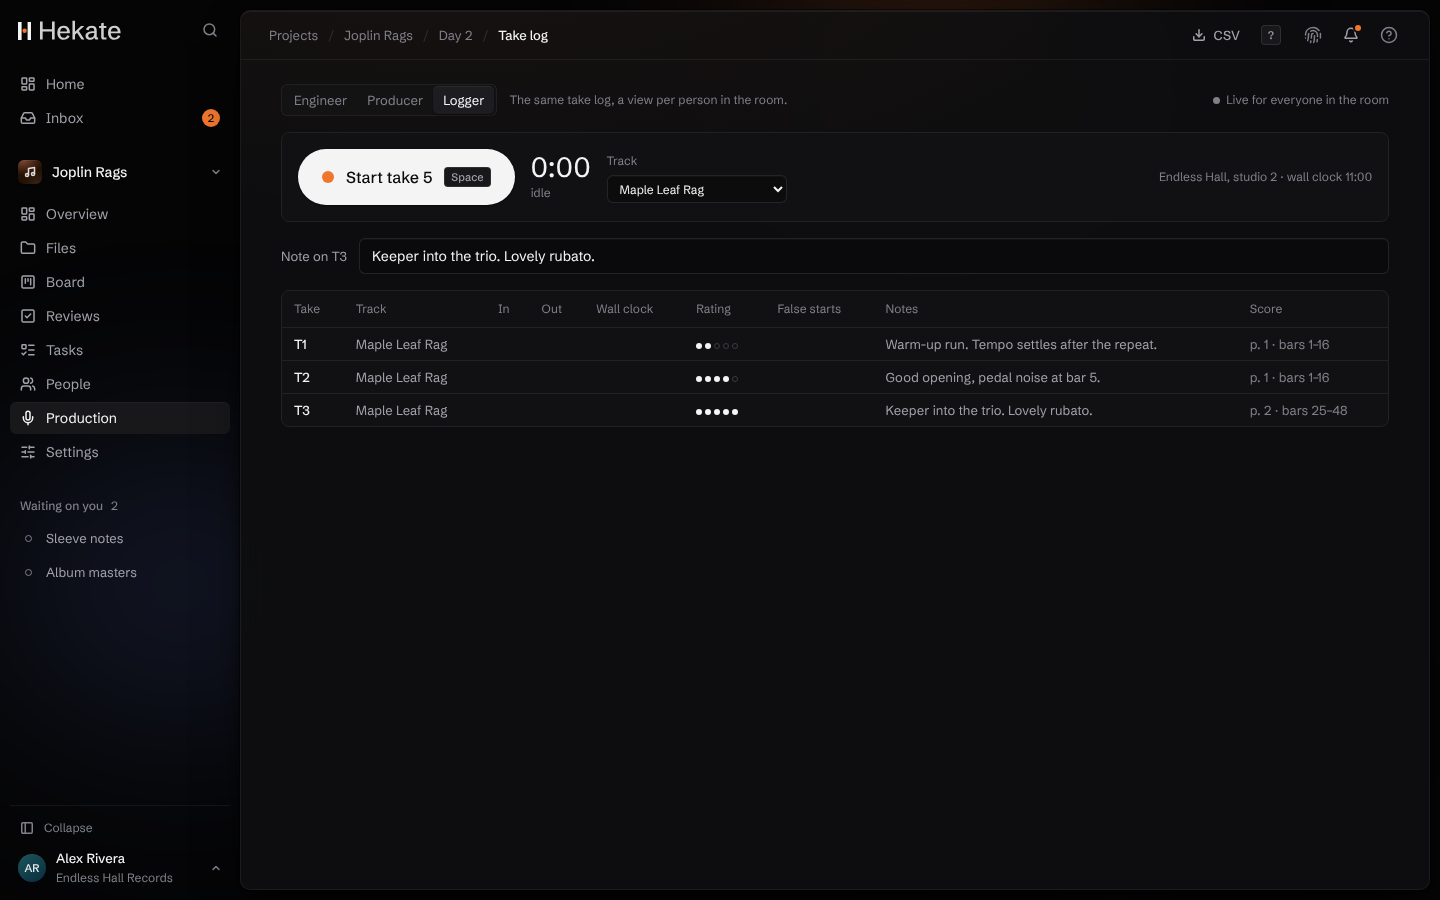
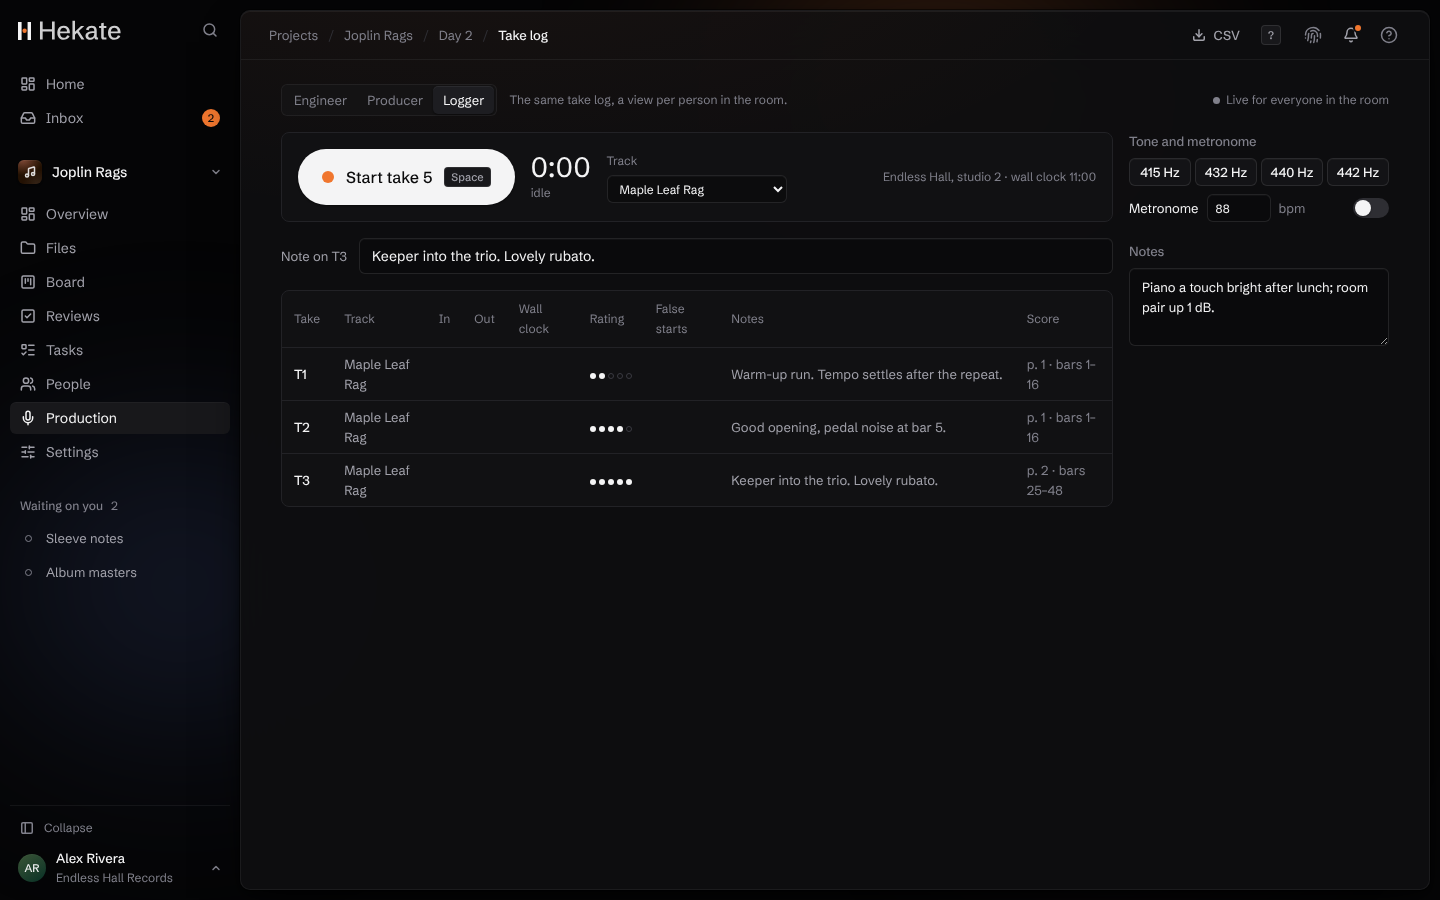
feat(web): a tuning tone and a metronome beside the take log (#51) (#368)
* feat(web): a tuning tone and a metronome beside the take log (#51)

Claude-Session: https://claude.ai/code/session_017vaSqC7EeCsBSrR21gRgK1

* fix(web): the metronome skips missed beats, and an output can be chosen where the browser asks

Claude-Session: https://claude.ai/code/session_017vaSqC7EeCsBSrR21gRgK1

---------

diff --git a/apps/web/src/lib/reference-audio.ts b/apps/web/src/lib/reference-audio.ts
@@ -1,0 +1,211 @@
+import { useCallback, useEffect, useRef, useState } from "react";
+
+/** The tuning pitches a room asks for: baroque, "Verdi", concert and orchestral A. */
+export const TONES = [415, 432, 440, 442] as const;
+export type Tone = (typeof TONES)[number];
+
+export const TEMPO_MIN = 30;
+export const TEMPO_MAX = 300;
+export const TEMPO_DEFAULT = 88;
+
+/** A tempo someone typed, as a whole number the metronome can keep; nothing for no number. */
+export function tempoOf(input: number): number | null {
+  if (!Number.isFinite(input)) return null;
+  return Math.min(TEMPO_MAX, Math.max(TEMPO_MIN, Math.round(input)));
+}
+
+/**
+ * The clicks to schedule now: every beat from `next` up to `until` (seconds on the audio clock),
+ * and where the beat after them falls. The audio clock keeps time; the timer only looks ahead.
+ * Beats already gone by `now` (the page was busy, or the timer slowed in the background) are
+ * skipped, never played late in a burst, and the beat stays on its grid.
+ */
+export function beatsDue(
+  next: number,
+  bpm: number,
+  now: number,
+  until: number,
+): { times: number[]; next: number } {
+  const step = 60 / bpm;
+  const times: number[] = [];
+  let at = next < now ? next + Math.ceil((now - next) / step) * step : next;
+  while (at < until) {
+    times.push(at);
+    at += step;
+  }
+  return { times, next: at };
+}
+
+/** How far ahead clicks are scheduled, and how often the scheduler wakes, in seconds. */
+const AHEAD = 0.1;
+const WAKE = 0.025;
+const TONE_LEVEL = 0.2;
+const CLICK_LEVEL = 0.4;
+const STORED = "hekate.metronome.tempo";
+
+type SinkContext = AudioContext & { setSinkId?: (id: string) => Promise<void> };
+/** Asking for an output by name, where the browser has it (Firefox does; Chrome lists them). */
+type Picker = MediaDevices & { selectAudioOutput?: () => Promise<MediaDeviceInfo> };
+
+const sinkSupported = () =>
+  typeof AudioContext !== "undefined" && "setSinkId" in AudioContext.prototype;
+
+/** An output a browser lets a page choose (Chrome and Edge do; others play through the default). */
+export interface AudioOutput {
+  id: string;
+  label: string;
+}
+
+function storedTempo(): number {
+  try {
+    return tempoOf(Number(localStorage.getItem(STORED) ?? Number.NaN)) ?? TEMPO_DEFAULT;
+  } catch {
+    return TEMPO_DEFAULT;
+  }
+}
+
+/**
+ * The take log's tuning tone and metronome (#51), played on this device only: each person in the
+ * room hears their own, through the output they choose where the browser allows it.
+ */
+export function useReferenceAudio() {
+  const context = useRef<SinkContext | null>(null);
+  const [tone, setTone] = useState<Tone | null>(null);
+  const [metronome, setMetronome] = useState(false);
+  const [tempo, setTempoState] = useState(storedTempo);
+  const [outputs, setOutputs] = useState<AudioOutput[]>([]);
+  const [output, setOutputState] = useState("");
+  const chosen = useRef(output);
+
+  // Made on first use, after a press, so the browser lets it sound.
+  const audio = useCallback((): SinkContext => {
+    if (!context.current) {
+      context.current = new AudioContext() as SinkContext;
+      if (chosen.current) void context.current.setSinkId?.(chosen.current).catch(() => undefined);
+    }
+    void context.current.resume();
+    return context.current;
+  }, []);
+
+  const setTempo = (bpm: number) => {
+    setTempoState(bpm);
+    try {
+      localStorage.setItem(STORED, String(bpm));
+    } catch {
+      // Remembering the tempo is a convenience; without storage it starts at the default.
+    }
+  };
+
+  const setOutput = (id: string) => {
+    setOutputState(id);
+    chosen.current = id;
+    void context.current?.setSinkId?.(id).catch(() => undefined);
+  };
+
+  useEffect(() => {
+    if (tone == null) return;
+    const ctx = audio();
+    const now = ctx.currentTime;
+    const oscillator = ctx.createOscillator();
+    const level = ctx.createGain();
+    oscillator.frequency.value = tone;
+    // A short fade either side, so the tone starts and stops without a click.
+    level.gain.setValueAtTime(0, now);
+    level.gain.linearRampToValueAtTime(TONE_LEVEL, now + 0.05);
+    oscillator.connect(level).connect(ctx.destination);
+    oscillator.start(now);
+    return () => {
+      const end = ctx.currentTime;
+      level.gain.cancelScheduledValues(end);
+      level.gain.setValueAtTime(level.gain.value, end);
+      level.gain.linearRampToValueAtTime(0, end + 0.05);
+      oscillator.stop(end + 0.06);
+    };
+  }, [tone, audio]);
+
+  useEffect(() => {
+    if (!metronome) return;
+    const ctx = audio();
+    let next = ctx.currentTime + 0.05;
+    const click = (at: number) => {
+      const oscillator = ctx.createOscillator();
+      const level = ctx.createGain();
+      oscillator.frequency.value = 1000;
+      level.gain.setValueAtTime(CLICK_LEVEL, at);
+      level.gain.exponentialRampToValueAtTime(0.001, at + 0.03);
+      oscillator.connect(level).connect(ctx.destination);
+      oscillator.start(at);
+      oscillator.stop(at + 0.04);
+    };
+    const wake = () => {
+      const due = beatsDue(next, tempo, ctx.currentTime, ctx.currentTime + AHEAD);
+      for (const at of due.times) click(at);
+      next = due.next;
+    };
+    wake();
+    const timer = setInterval(wake, WAKE * 1000);
+    return () => clearInterval(timer);
+  }, [metronome, tempo, audio]);
+
+  useEffect(() => {
+    const devices = navigator.mediaDevices;
+    if (!sinkSupported()) return;
+    if (!devices?.enumerateDevices) return;
+    const list = () =>
+      devices
+        .enumerateDevices()
+        .then((all) =>
+          // Browsers name outputs only once a page may use a microphone; unnamed, there is no choice.
+          setOutputs(
+            all
+              .filter((d) => d.kind === "audiooutput" && d.label && d.deviceId !== "default")
+              .map((d) => ({ id: d.deviceId, label: d.label })),
+          ),
+        )
+        .catch(() => setOutputs([]));
+    void list();
+    devices.addEventListener?.("devicechange", list);
+    return () => devices.removeEventListener?.("devicechange", list);
+  }, []);
+
+  useEffect(
+    () => () => {
+      void context.current?.close();
+      context.current = null;
+    },
+    [],
+  );
+
+  const picker = typeof navigator === "undefined" ? undefined : (navigator.mediaDevices as Picker);
+  /** Where a browser asks the person for an output, the output they chose; nothing if they did not. */
+  const pick =
+    sinkSupported() && picker?.selectAudioOutput
+      ? async () => {
+          try {
+            const device = await picker.selectAudioOutput?.();
+            if (!device) return;
+            setOutputs((all) =>
+              all.some((o) => o.id === device.deviceId)
+                ? all
+                : [...all, { id: device.deviceId, label: device.label || "Chosen output" }],
+            );
+            setOutput(device.deviceId);
+          } catch {
+            // Dismissed, or refused: the tone and click stay on the output they were on.
+          }
+        }
+      : null;
+
+  return {
+    pick,
+    tone,
+    setTone,
+    metronome,
+    setMetronome,
+    tempo,
+    setTempo,
+    outputs,
+    output,
+    setOutput,
+  };
+}

diff --git a/apps/web/src/routes/take-log.tsx b/apps/web/src/routes/take-log.tsx
@@ -18,9 +18,11 @@ import { Button } from "~/components/ui/button";
 import { Checkbox } from "~/components/ui/choice";
 import { Input, Select, Textarea } from "~/components/ui/input";
 import { Segmented } from "~/components/ui/segmented";
+import { Switch } from "~/components/ui/toggle";
 import { cn } from "~/lib/cn";
 import { formatDates } from "~/lib/locale";
 import { projectQuery, sessionQuery, useProjectCan, useTakeLog, viewQuery } from "~/lib/queries";
+import { TEMPO_MAX, TEMPO_MIN, TONES, tempoOf, useReferenceAudio } from "~/lib/reference-audio";
 import { useShortcuts } from "~/lib/shortcuts";
 import {
   clock,
@@ -680,6 +682,83 @@ function ScorePage({
   );
 }
 
+/** A tuning tone and a metronome for whoever has this page open, heard on their device only. */
+function ToneAndMetronome() {
+  const audio = useReferenceAudio();
+  const id = useId();
+  const [typed, setTyped] = useState(String(audio.tempo));
+  return (
+    <section aria-labelledby={id} className="flex flex-col gap-2">
+      <h2 id={id} className="label m-0">
+        Tone and metronome
+      </h2>
+      <div className="grid grid-cols-4 gap-1">
+        {TONES.map((hz) => (
+          <Button
+            key={hz}
+            size="sm"
+            variant="secondary"
+            aria-pressed={audio.tone === hz}
+            onClick={() => audio.setTone(audio.tone === hz ? null : hz)}
+            className="tabular px-0 aria-pressed:border-signal/60 aria-pressed:bg-signal/10"
+          >
+            {hz} Hz
+          </Button>
+        ))}
+      </div>
+      <div className="flex items-center gap-2 text-[13px] text-ink">
+        <span className="flex flex-1 items-center gap-2">
+          Metronome
+          <Input
+            aria-label="Tempo, beats a minute"
+            size="sm"
+            type="number"
+            inputMode="numeric"
+            min={TEMPO_MIN}
+            max={TEMPO_MAX}
+            value={typed}
+            onChange={(e) => {
+              setTyped(e.target.value);
+              const bpm = tempoOf(e.target.valueAsNumber);
+              if (bpm != null && bpm === e.target.valueAsNumber) audio.setTempo(bpm);
+            }}
+            onBlur={() => {
+              const bpm = tempoOf(Number.parseFloat(typed)) ?? audio.tempo;
+              audio.setTempo(bpm);
+              setTyped(String(bpm));
+            }}
+            className="tabular w-16"
+          />
+          <span aria-hidden="true" className="text-ink-3">
+            bpm
+          </span>
+        </span>
+        <Switch label="Metronome" checked={audio.metronome} onChange={audio.setMetronome} />
+      </div>
+      {audio.outputs.length > 0 && (
+        <Select
+          size="sm"
+          aria-label="Play through"
+          value={audio.output}
+          onChange={(e) => audio.setOutput(e.target.value)}
+        >
+          <option value="">This device's default output</option>
+          {audio.outputs.map((o) => (
+            <option key={o.id} value={o.id}>
+              {o.label}
+            </option>
+          ))}
+        </Select>
+      )}
+      {audio.pick && (
+        <Button size="sm" variant="ghost" onClick={audio.pick} className="self-start">
+          Choose an output
+        </Button>
+      )}
+    </section>
+  );
+}
+
 /**
  * Beside the log (#51): for the producer, the score where the take starts, the room's to-do
  * list and the quick reference; for everyone, the session's notes.
@@ -784,6 +863,7 @@ function TakeLogAside({
           />
         </>
       )}
+      <ToneAndMetronome />
       <SharedText
         label="Notes"
         value={session.notes}

diff --git a/apps/web/src/lib/reference-audio.test.ts b/apps/web/src/lib/reference-audio.test.ts
@@ -1,0 +1,45 @@
+import { describe, expect, it } from "vitest";
+import { beatsDue, TEMPO_MAX, TEMPO_MIN, tempoOf } from "./reference-audio";
+
+describe("tempoOf", () => {
+  it("keeps a typed tempo whole and within what a metronome plays", () => {
+    expect(tempoOf(88)).toBe(88);
+    expect(tempoOf(92.6)).toBe(93);
+    expect(tempoOf(4)).toBe(TEMPO_MIN);
+    expect(tempoOf(1000)).toBe(TEMPO_MAX);
+  });
+
+  it("takes no tempo from no number", () => {
+    expect(tempoOf(Number.NaN)).toBeNull();
+    expect(tempoOf(Number.POSITIVE_INFINITY)).toBeNull();
+  });
+});
+
+describe("beatsDue", () => {
+  it("schedules the beats inside the window and says where the next falls", () => {
+    // 120 a minute is a beat every half second.
+    expect(beatsDue(1, 120, 0.9, 2.2)).toEqual({ times: [1, 1.5, 2], next: 2.5 });
+  });
+
+  it("schedules nothing until the next beat is near", () => {
+    expect(beatsDue(3, 60, 2.8, 2.9)).toEqual({ times: [], next: 3 });
+  });
+
+  it("skips the beats a late wake missed, keeping the rest on the beat", () => {
+    // Due at 1, 1.5, 2 and 2.5; the scheduler woke at 2.3.
+    expect(beatsDue(1, 120, 2.3, 2.4)).toEqual({ times: [], next: 2.5 });
+    expect(beatsDue(1, 120, 2.3, 2.6)).toEqual({ times: [2.5], next: 3 });
+  });
+
+  it("carries on from where the last window stopped, without drift", () => {
+    let next = 0;
+    const heard: number[] = [];
+    for (let now = 0; now < 4; now += 0.025) {
+      const due = beatsDue(next, 90, now, now + 0.1);
+      heard.push(...due.times);
+      next = due.next;
+    }
+    expect(heard).toHaveLength(7);
+    expect(heard.at(-1)).toBeCloseTo(4, 9);
+  });
+});

diff --git a/apps/e2e/tests/screens.spec.ts b/apps/e2e/tests/screens.spec.ts
@@ -592,6 +592,12 @@ test("take-log", async ({ page }) => {
   await settle(page, "main ul[aria-label=Takes] >> text=T3");
   await saveScreen(page, "take-log");
   await checkScreen(page);
+  // The tuning tone sounds on this device while pressed, and stops when pressed again.
+  const tone = page.getByRole("button", { name: "440 Hz" });
+  await tone.click();
+  await expect(tone).toHaveAttribute("aria-pressed", "true");
+  await tone.click();
+  await expect(tone).toHaveAttribute("aria-pressed", "false");
   await page.getByRole("button", { name: "Logger" }).click();
   await settle(page, "main table >> text=T3");
   await saveScreen(page, "take-log-logger");

diff --git a/docs/decisions.md b/docs/decisions.md
@@ -819,3 +819,15 @@ Several people at once with their own views, local-first writes, the session clo
 - **Who may.** Everyone who sees the session's takes reads them; those who may change takes write them.
 
 The engineer's patch list waits for patch lists (#54); tone, metronome and the recorder's numbers and timecode for the session tools.
+
+## 152. The take log's tuning tone and metronome
+
+#51, fourth part. Beside the take log, in every view, a tuning tone and a metronome, as the prototype has.
+
+- **On this device only.** Each is played by the page in the browser (Web Audio) for whoever has it open; nothing is stored on the session or sent to the room, as a tuning fork and a click are personal tools.
+- **The tone.** A sine at 415, 432, 440 or 442 Hz, the pitches rooms tune to; pressed, it sounds until pressed again or another is chosen, fading in and out so it never clicks.
+- **The metronome.** A short click on every beat, from 30 to 300 a minute. The beats are timed on the audio clock and scheduled a moment ahead, so a busy page does not make the click drift. The last tempo is remembered on the device.
+- **The output.** Where the browser lets a page play to a chosen output (Chrome and Edge do), a list chooses where the tone and click play, such as headphones while the room monitors stay on the desk. Such a browser names its outputs only to a page it trusts with a microphone, so the list appears once it has; where the browser can ask the person for an output itself, "Choose an output" does. The log never asks for the microphone just to list speakers. Elsewhere the tone and click play through the default output.
+- **Steady under load.** Beats the scheduler missed (a busy page, a tab in the background) are skipped rather than played late, so the click never bursts and stays on the beat.
+
+The recorder's numbers and timecode wait for the session tools; local-first writes and the large-print overview follow.
